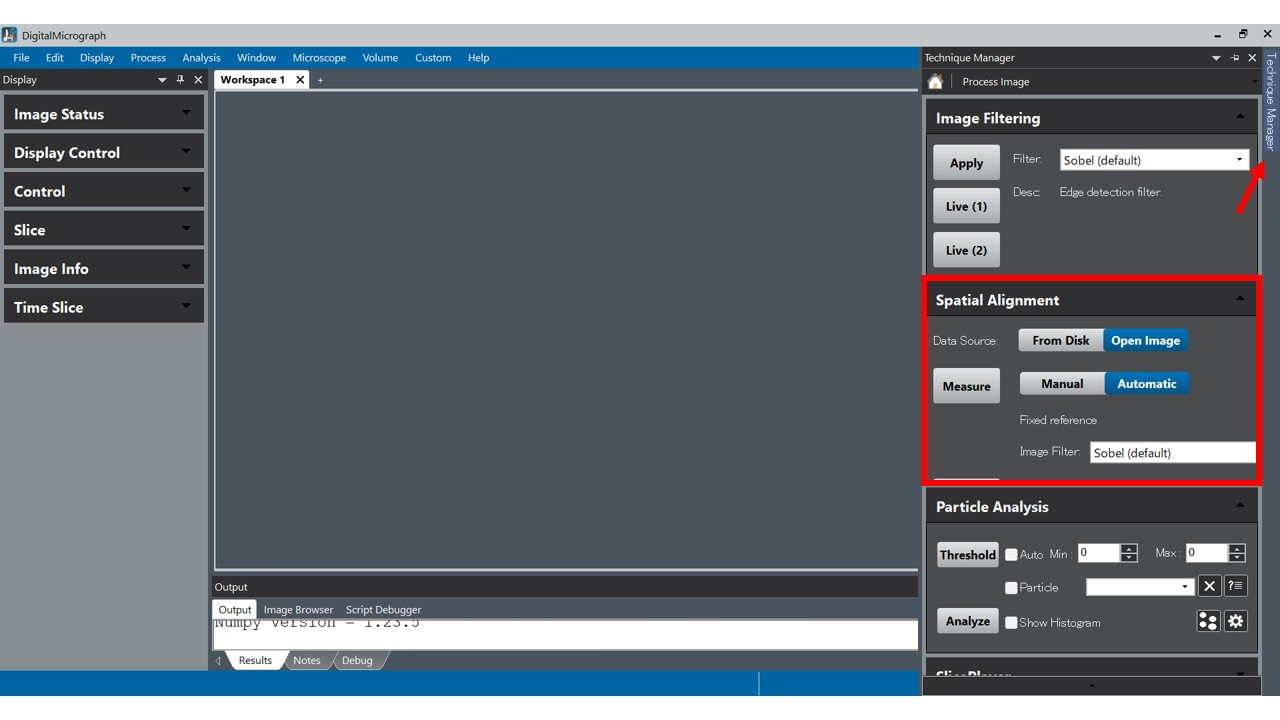
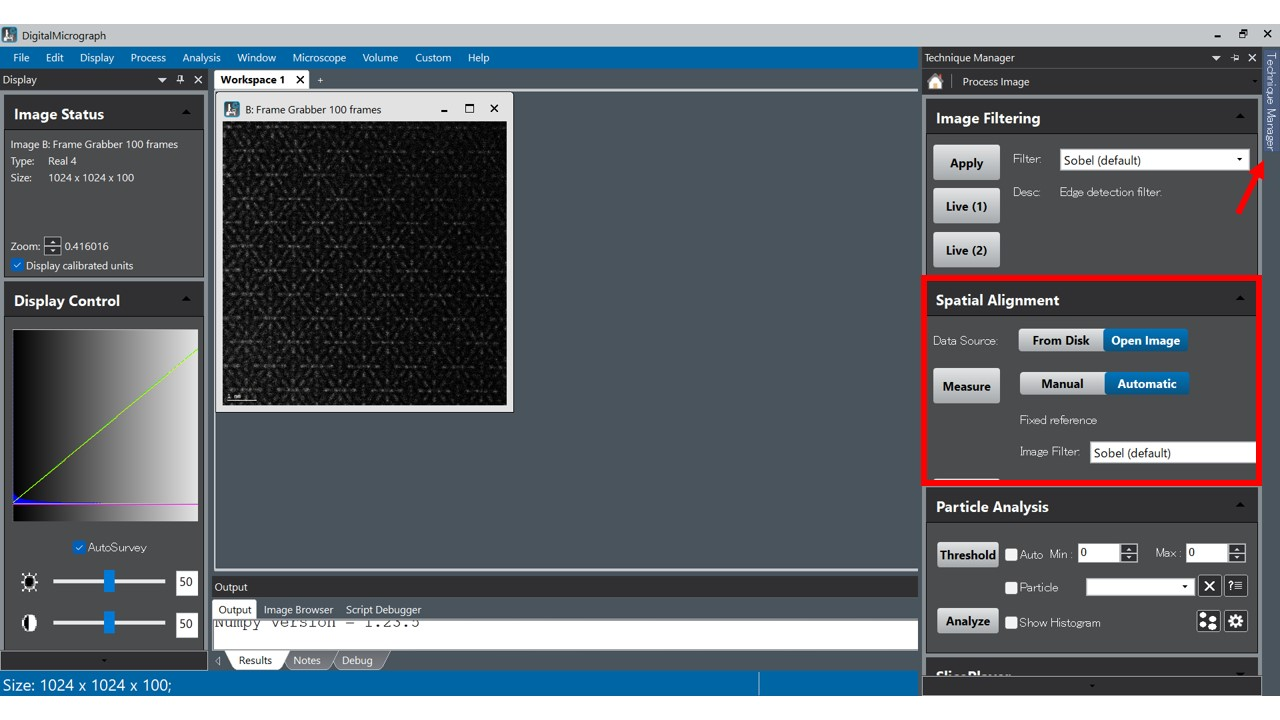
manual.mdの自動補正手順に画像を開いた状態での操作を明記

Changed region(s): [[0.0, 0.1222, 0.4062, 0.9778]]

diff --git a/docs/manual.md b/docs/manual.md
@@ -6,7 +6,7 @@
 
 ### 自動補正の実行
 
-1. `Technique Manager` → `Process Image` → `Spatial Alignment` を選択し、`Automatic` に設定します。
+1. 画像を開いた状態で `Technique Manager` → `Process Image` → `Spatial Alignment` を選択し、`Automatic` に設定します。
 2. `Image Filter`（Sobel など）を選択し、`Measure` を実行します。
 
 ![Spatial Alignment settings](./images/spacial_alignment_settings.jpg)
